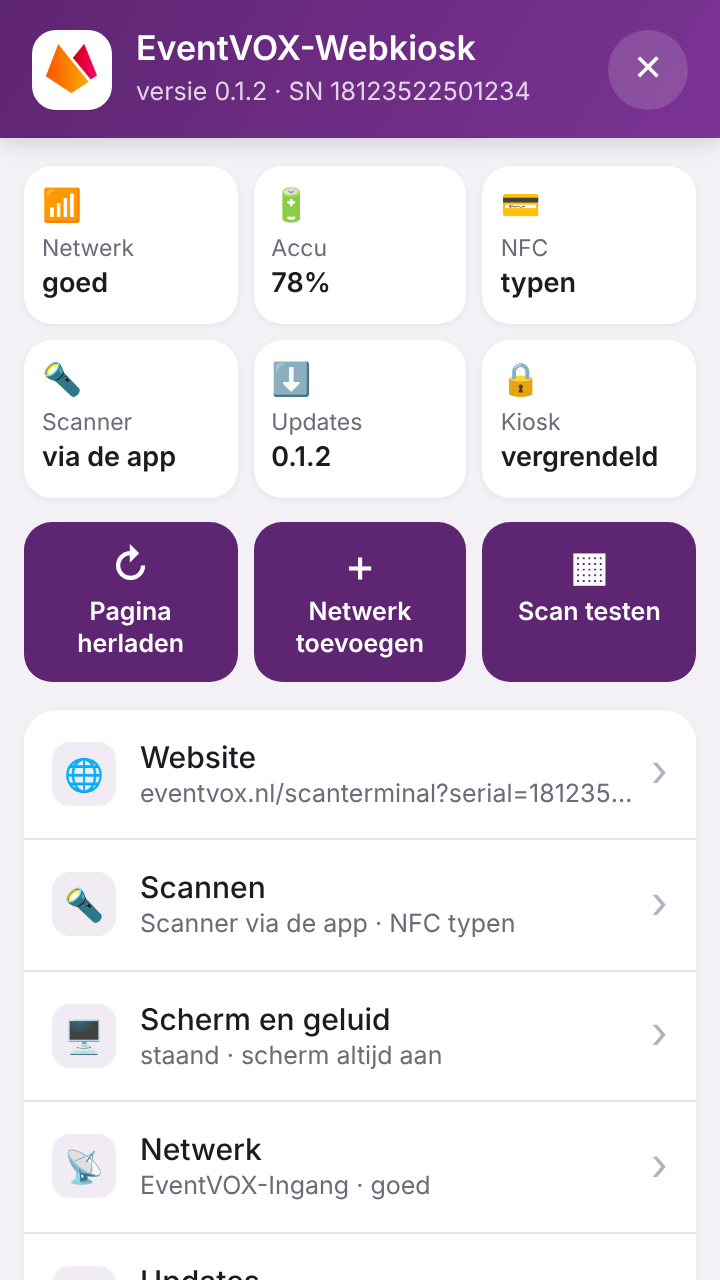
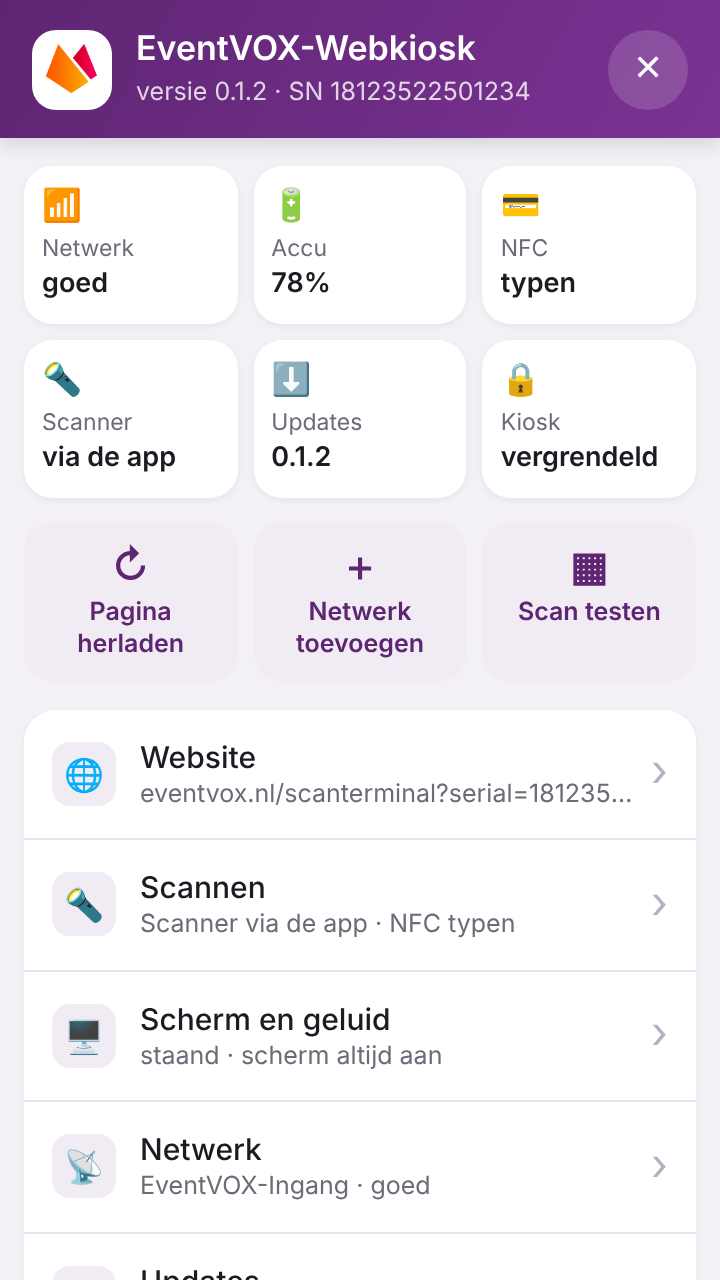
Beheerscherm: snelle acties licht paars in plaats van vol paars
Claude-Session: https://claude.ai/code/session_01XbTwMgGc6w6z84iXdLw6t1

Changed region(s): [[0.0306, 0.4062, 0.9778, 0.5312]]

diff --git a/app/assets/admin.css b/app/assets/admin.css
@@ -152,10 +152,10 @@ details[open] summary { margin-bottom: 10px; }
 
 /* Snelle acties */
 .quick { display: grid; grid-template-columns: repeat(3, 1fr); grid-gap: 8px; margin-bottom: 14px; }
-.qbtn { background: var(--purple); color: #fff; border-radius: 14px; padding: 12px 6px 10px; font-size: 12.5px; font-weight: 600; line-height: 1.25;
+.qbtn { background: #f1ecf4; color: var(--purple); border-radius: 14px; padding: 12px 6px 10px; font-size: 12.5px; font-weight: 600; line-height: 1.25;
   display: flex; flex-direction: column; align-items: center; text-align: center; }
 .qbtn span { font-size: 20px; line-height: 1; margin-bottom: 6px; }
-.qbtn:active { filter: brightness(1.15); }
+.qbtn:active { background: #e6dcee; }
 
 /* Menu als lijst, zoals de instellingen van een telefoon */
 .menu { background: var(--card); border-radius: 16px; overflow: hidden; box-shadow: 0 1px 3px rgba(30,10,40,.06); }
